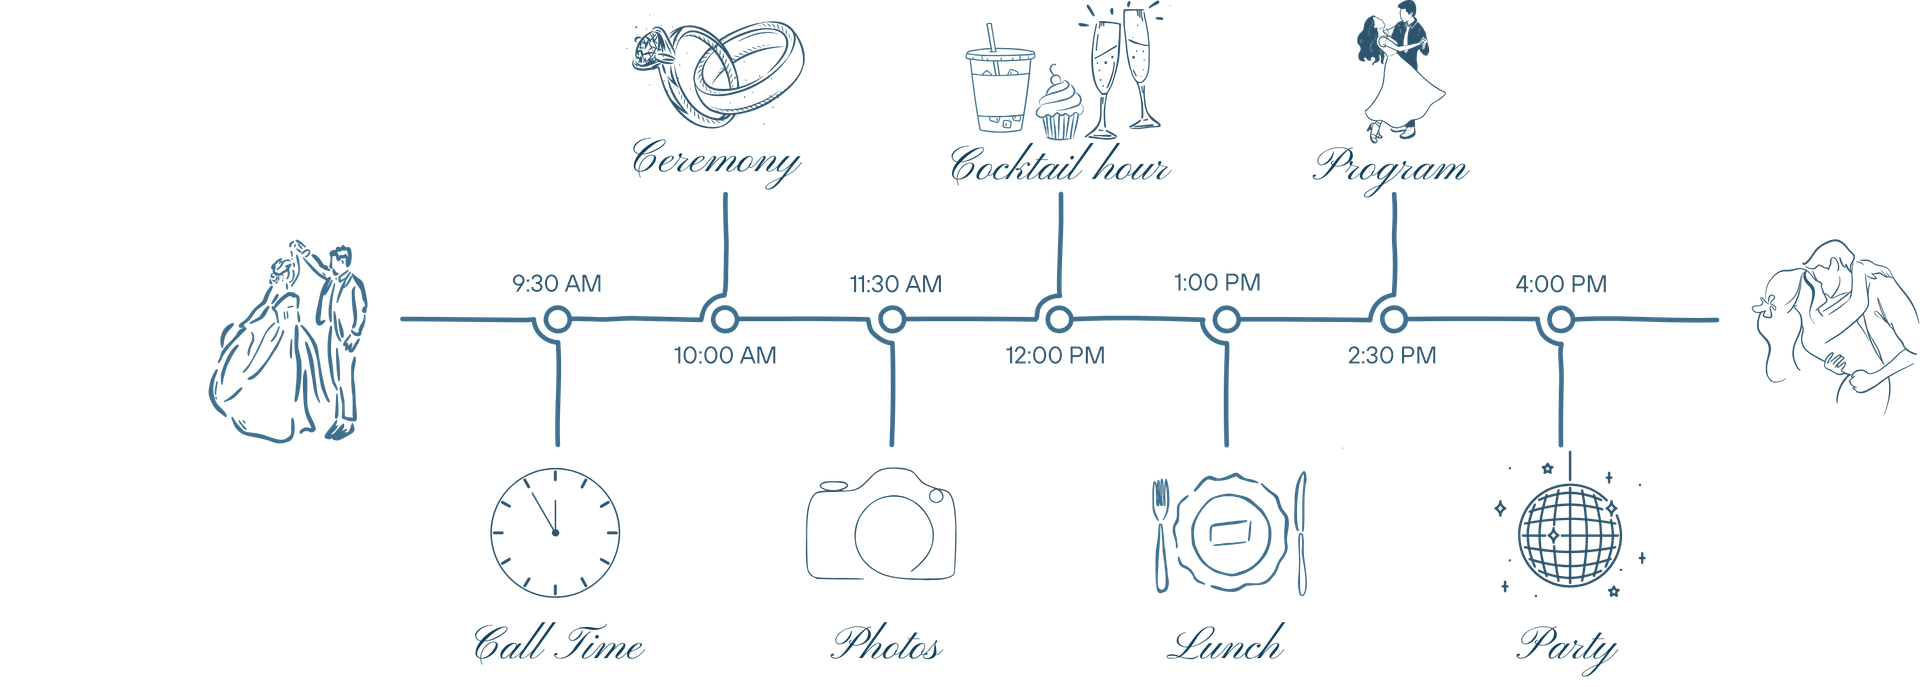
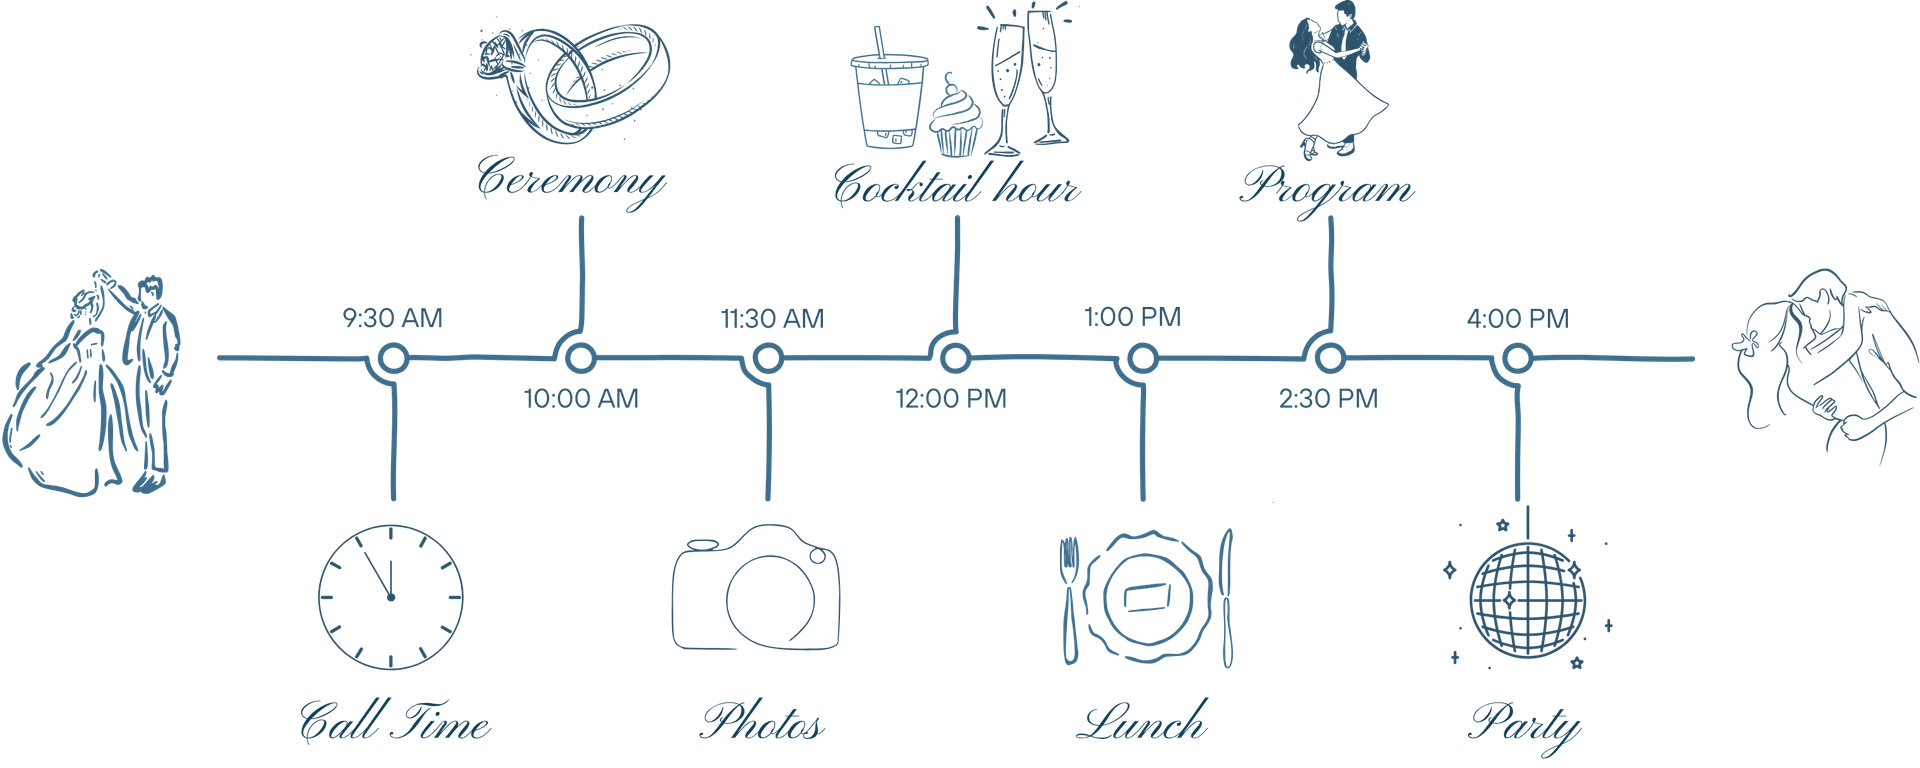
feat: add wedding timeline image and enhance styles - Introduce a new image for the wedding timeline section, update styles for responsiveness, and replace background images with optimized versions for improved visual appeal.

diff --git a/style.css b/style.css
@@ -372,7 +372,6 @@ section {
   background-position: center;
   background-repeat: no-repeat;
   width: 100%;
-  min-height: 100vh;
   display: flex;
   align-items: center;
   justify-content: center;
@@ -385,6 +384,25 @@ section {
   width: 100%;
   max-width: 1200px;
   text-align: center;
+  display: flex;
+  flex-direction: column;
+  align-items: center;
+  padding: 0 2em;
+  box-sizing: border-box;
+}
+
+.wedding-timeline__image {
+  flex: 1;
+  width: 100%;
+  max-width: 1200px;
+  margin: 2em auto;
+  border-radius: 12px;
+  overflow: hidden;
+  background-image: url('img/optimized/timeline-large.png');
+  background-size: contain;
+  background-position: center;
+  background-repeat: no-repeat;
+  aspect-ratio: 16/9;
 }
 
 .wedding-timeline__heading {
@@ -963,6 +981,11 @@ section {
   .principal-sponsors__footer-text {
     font-size: 2em;
   }
+
+  .wedding-timeline__image {
+    max-width: 700px;
+    background-image: url('img/optimized/timeline-medium.png');
+  }
 }
 
 @media screen and (max-width: 768px) {
@@ -1093,6 +1116,10 @@ section {
     font-size: 1.8em;
     letter-spacing: 0.1em;
   }
+
+  .wedding-timeline__image {
+    max-width: 500px;
+  }
 }
 
 @media screen and (max-width: 480px) {
@@ -1220,6 +1247,11 @@ section {
   .principal-sponsors__footer-text {
     font-size: 1.5em;
     letter-spacing: 0.08em;
+  }
+
+  .wedding-timeline__image {
+    max-width: 350px;
+    background-image: url('img/optimized/timeline-small.png');
   }
 }
 
@@ -1358,6 +1390,10 @@ section {
   .entourage__grid {
     padding: 0 5%;
   }
+
+  .wedding-timeline__image {
+    max-width: 280px;
+  }
 }
 
 /* Ultra small devices */
@@ -1431,6 +1467,10 @@ section {
   .principal-sponsors__footer-text {
     font-size: 0.9em;
   }
+
+  .wedding-timeline__image {
+    max-width: 280px;
+  }
 }
 
 /* Handle very small heights */
@@ -1455,7 +1495,7 @@ section {
 
 /* FAQs section */
 .faqs {
-  background-image: url('img/optimized/blue-background-large.jpg');
+  background-image: url('img/optimized/dark-blue-background-large.jpg');
   background-size: cover;
   background-position: center;
   background-repeat: no-repeat;

diff --git a/index.html b/index.html
@@ -71,6 +71,7 @@
     <section class="wedding-timeline" aria-labelledby="wedding-timeline-heading">
       <div class="wedding-timeline__content">
         <h2 id="wedding-timeline-heading" class="wedding-timeline__heading">Wedding Timeline</h2>
+        <div class="wedding-timeline__image" role="img" aria-label="Wedding day timeline"></div>
       </div>
     </section>
     <section class="guest-attire" aria-labelledby="guest-attire-heading">
